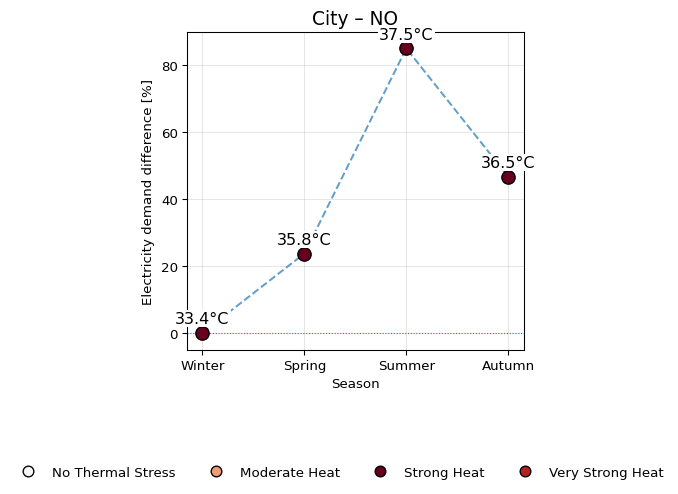
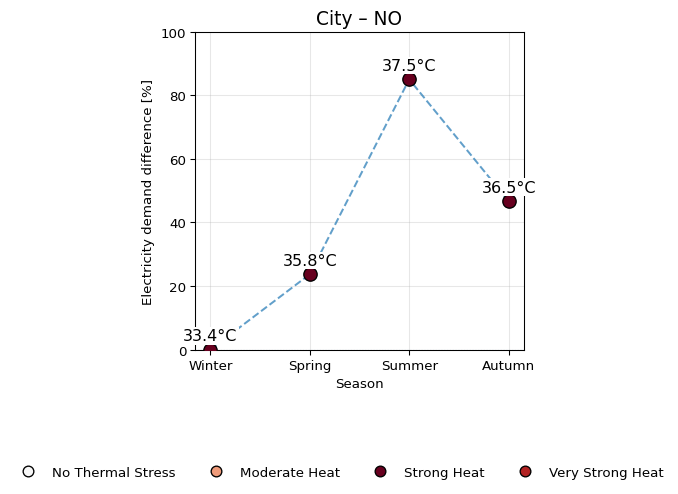
limy 0 a 100

diff --git a/docs/index.html b/docs/index.html
@@ -111,7 +111,7 @@ ul.task-list li input[type="checkbox"] {
 <!-- 
 # UTCI vs Hourly electric demand
 
-::: {#ded6f86d .cell execution_count=1}
+::: {#4708153d .cell execution_count=1}
 
 ::: {.cell-output .cell-output-display}
 ![](index_files/figure-html/cell-2-output-1.png){}
@@ -135,7 +135,7 @@ ul.task-list li input[type="checkbox"] {
 <div class="html-fill-item html-fill-container">
 
 </div>
-<div id="97244298" class="cell quarto-layout-panel html-fill-item html-fill-container" data-layout-ncol="2" data-execution_count="2">
+<div id="ab9781e4" class="cell quarto-layout-panel html-fill-item html-fill-container" data-layout-ncol="2" data-execution_count="2">
 <div class="quarto-layout-row html-fill-item html-fill-container">
 <div class="quarto-layout-cell html-fill-item html-fill-container" style="flex-basis: 50.0%;justify-content: center;">
 <img src="index_files/figure-html/cell-3-output-1.png" class="img-fluid">
@@ -159,7 +159,7 @@ ul.task-list li input[type="checkbox"] {
 <div class="html-fill-item html-fill-container">
 
 </div>
-<div id="6d01cd32" class="cell quarto-layout-panel html-fill-item html-fill-container" data-layout-ncol="2" data-execution_count="3">
+<div id="e091e50a" class="cell quarto-layout-panel html-fill-item html-fill-container" data-layout-ncol="2" data-execution_count="3">
 <div class="quarto-layout-row html-fill-item html-fill-container">
 <div class="quarto-layout-cell html-fill-item html-fill-container" style="flex-basis: 50.0%;justify-content: center;">
 <img src="index_files/figure-html/cell-4-output-1.png" class="img-fluid">
@@ -315,7 +315,7 @@ ul.task-list li input[type="checkbox"] {
 <div class="html-fill-item html-fill-container">
 
 </div>
-<div id="cd5b8e27" class="cell quarto-layout-panel html-fill-item html-fill-container" data-layout-ncol="2" data-execution_count="4">
+<div id="4be572e1" class="cell quarto-layout-panel html-fill-item html-fill-container" data-layout-ncol="2" data-execution_count="4">
 <div class="quarto-layout-row html-fill-item html-fill-container">
 <div class="quarto-layout-cell html-fill-item html-fill-container" style="flex-basis: 50.0%;justify-content: center;">
 <img src="index_files/figure-html/cell-5-output-1.png" class="img-fluid">
@@ -339,7 +339,7 @@ ul.task-list li input[type="checkbox"] {
 <div class="html-fill-item html-fill-container">
 
 </div>
-<div id="a7ed5b02" class="cell quarto-layout-panel html-fill-item html-fill-container" data-layout-ncol="2" data-execution_count="5">
+<div id="bcae6a57" class="cell quarto-layout-panel html-fill-item html-fill-container" data-layout-ncol="2" data-execution_count="5">
 <div class="quarto-layout-row html-fill-item html-fill-container">
 <div class="quarto-layout-cell html-fill-item html-fill-container" style="flex-basis: 50.0%;justify-content: center;">
 <img src="index_files/figure-html/cell-6-output-1.png" class="img-fluid">
@@ -495,7 +495,7 @@ ul.task-list li input[type="checkbox"] {
 <div class="html-fill-item html-fill-container">
 
 </div>
-<div id="2ca6bac8" class="cell quarto-layout-panel html-fill-item html-fill-container" data-layout-ncol="2" data-execution_count="6">
+<div id="6ce73426" class="cell quarto-layout-panel html-fill-item html-fill-container" data-layout-ncol="2" data-execution_count="6">
 <div class="quarto-layout-row html-fill-item html-fill-container">
 <div class="quarto-layout-cell html-fill-item html-fill-container" style="flex-basis: 50.0%;justify-content: center;">
 <img src="index_files/figure-html/cell-7-output-1.png" class="img-fluid">
@@ -519,7 +519,7 @@ ul.task-list li input[type="checkbox"] {
 <div class="html-fill-item html-fill-container">
 
 </div>
-<div id="0c0a76bf" class="cell quarto-layout-panel html-fill-item html-fill-container" data-layout-ncol="2" data-execution_count="7">
+<div id="a0bf2d18" class="cell quarto-layout-panel html-fill-item html-fill-container" data-layout-ncol="2" data-execution_count="7">
 <div class="quarto-layout-row html-fill-item html-fill-container">
 <div class="quarto-layout-cell html-fill-item html-fill-container" style="flex-basis: 50.0%;justify-content: center;">
 <img src="index_files/figure-html/cell-8-output-1.png" class="img-fluid">
@@ -675,7 +675,7 @@ ul.task-list li input[type="checkbox"] {
 <div class="html-fill-item html-fill-container">
 
 </div>
-<div id="69ab8b50" class="cell quarto-layout-panel html-fill-item html-fill-container" data-layout-ncol="2" data-execution_count="8">
+<div id="5b32c5f6" class="cell quarto-layout-panel html-fill-item html-fill-container" data-layout-ncol="2" data-execution_count="8">
 <div class="quarto-layout-row html-fill-item html-fill-container">
 <div class="quarto-layout-cell html-fill-item html-fill-container" style="flex-basis: 50.0%;justify-content: center;">
 <img src="index_files/figure-html/cell-9-output-1.png" class="img-fluid">
@@ -699,7 +699,7 @@ ul.task-list li input[type="checkbox"] {
 <div class="html-fill-item html-fill-container">
 
 </div>
-<div id="1c900d33" class="cell quarto-layout-panel html-fill-item html-fill-container" data-layout-ncol="2" data-execution_count="9">
+<div id="2a69cba7" class="cell quarto-layout-panel html-fill-item html-fill-container" data-layout-ncol="2" data-execution_count="9">
 <div class="quarto-layout-row html-fill-item html-fill-container">
 <div class="quarto-layout-cell html-fill-item html-fill-container" style="flex-basis: 50.0%;justify-content: center;">
 <img src="index_files/figure-html/cell-10-output-1.png" class="img-fluid">
@@ -855,7 +855,7 @@ ul.task-list li input[type="checkbox"] {
 <div class="html-fill-item html-fill-container">
 
 </div>
-<div id="066098b0" class="cell quarto-layout-panel html-fill-item html-fill-container" data-layout-ncol="2" data-execution_count="10">
+<div id="f2e45f4b" class="cell quarto-layout-panel html-fill-item html-fill-container" data-layout-ncol="2" data-execution_count="10">
 <div class="quarto-layout-row html-fill-item html-fill-container">
 <div class="quarto-layout-cell html-fill-item html-fill-container" style="flex-basis: 50.0%;justify-content: center;">
 <img src="index_files/figure-html/cell-11-output-1.png" class="img-fluid">
@@ -879,7 +879,7 @@ ul.task-list li input[type="checkbox"] {
 <div class="html-fill-item html-fill-container">
 
 </div>
-<div id="7f5b3a57" class="cell quarto-layout-panel html-fill-item html-fill-container" data-layout-ncol="2" data-execution_count="11">
+<div id="6616eb79" class="cell quarto-layout-panel html-fill-item html-fill-container" data-layout-ncol="2" data-execution_count="11">
 <div class="quarto-layout-row html-fill-item html-fill-container">
 <div class="quarto-layout-cell html-fill-item html-fill-container" style="flex-basis: 50.0%;justify-content: center;">
 <img src="index_files/figure-html/cell-12-output-1.png" class="img-fluid">
@@ -1035,7 +1035,7 @@ ul.task-list li input[type="checkbox"] {
 <div class="html-fill-item html-fill-container">
 
 </div>
-<div id="7a336692" class="cell quarto-layout-panel html-fill-item html-fill-container" data-layout-ncol="2" data-execution_count="12">
+<div id="e14de828" class="cell quarto-layout-panel html-fill-item html-fill-container" data-layout-ncol="2" data-execution_count="12">
 <div class="quarto-layout-row html-fill-item html-fill-container">
 <div class="quarto-layout-cell html-fill-item html-fill-container" style="flex-basis: 50.0%;justify-content: center;">
 <img src="index_files/figure-html/cell-13-output-1.png" class="img-fluid">
@@ -1059,7 +1059,7 @@ ul.task-list li input[type="checkbox"] {
 <div class="html-fill-item html-fill-container">
 
 </div>
-<div id="f4fadbe1" class="cell quarto-layout-panel html-fill-item html-fill-container" data-layout-ncol="2" data-execution_count="13">
+<div id="c2303d54" class="cell quarto-layout-panel html-fill-item html-fill-container" data-layout-ncol="2" data-execution_count="13">
 <div class="quarto-layout-row html-fill-item html-fill-container">
 <div class="quarto-layout-cell html-fill-item html-fill-container" style="flex-basis: 50.0%;justify-content: center;">
 <img src="index_files/figure-html/cell-14-output-1.png" class="img-fluid">
@@ -1215,7 +1215,7 @@ ul.task-list li input[type="checkbox"] {
 <div class="html-fill-item html-fill-container">
 
 </div>
-<div id="5d4aa1a1" class="cell quarto-layout-panel html-fill-item html-fill-container" data-layout-ncol="2" data-execution_count="14">
+<div id="5523e3ab" class="cell quarto-layout-panel html-fill-item html-fill-container" data-layout-ncol="2" data-execution_count="14">
 <div class="quarto-layout-row html-fill-item html-fill-container">
 <div class="quarto-layout-cell html-fill-item html-fill-container" style="flex-basis: 50.0%;justify-content: center;">
 <img src="index_files/figure-html/cell-15-output-1.png" class="img-fluid">
@@ -1239,7 +1239,7 @@ ul.task-list li input[type="checkbox"] {
 <div class="html-fill-item html-fill-container">
 
 </div>
-<div id="72838545" class="cell quarto-layout-panel html-fill-item html-fill-container" data-layout-ncol="2" data-execution_count="15">
+<div id="81886934" class="cell quarto-layout-panel html-fill-item html-fill-container" data-layout-ncol="2" data-execution_count="15">
 <div class="quarto-layout-row html-fill-item html-fill-container">
 <div class="quarto-layout-cell html-fill-item html-fill-container" style="flex-basis: 50.0%;justify-content: center;">
 <img src="index_files/figure-html/cell-16-output-1.png" class="img-fluid">
@@ -1395,7 +1395,7 @@ ul.task-list li input[type="checkbox"] {
 <div class="html-fill-item html-fill-container">
 
 </div>
-<div id="ecfc109a" class="cell quarto-layout-panel html-fill-item html-fill-container" data-layout-ncol="2" data-execution_count="16">
+<div id="25990a2e" class="cell quarto-layout-panel html-fill-item html-fill-container" data-layout-ncol="2" data-execution_count="16">
 <div class="quarto-layout-row html-fill-item html-fill-container">
 <div class="quarto-layout-cell html-fill-item html-fill-container" style="flex-basis: 50.0%;justify-content: center;">
 <img src="index_files/figure-html/cell-17-output-1.png" class="img-fluid">
@@ -1419,7 +1419,7 @@ ul.task-list li input[type="checkbox"] {
 <div class="html-fill-item html-fill-container">
 
 </div>
-<div id="18f26953" class="cell quarto-layout-panel html-fill-item html-fill-container" data-layout-ncol="2" data-execution_count="17">
+<div id="04824335" class="cell quarto-layout-panel html-fill-item html-fill-container" data-layout-ncol="2" data-execution_count="17">
 <div class="quarto-layout-row html-fill-item html-fill-container">
 <div class="quarto-layout-cell html-fill-item html-fill-container" style="flex-basis: 50.0%;justify-content: center;">
 <img src="index_files/figure-html/cell-18-output-1.png" class="img-fluid">
@@ -1575,7 +1575,7 @@ ul.task-list li input[type="checkbox"] {
 <div class="html-fill-item html-fill-container">
 
 </div>
-<div id="f10c8df1" class="cell quarto-layout-panel html-fill-item html-fill-container" data-layout-ncol="2" data-execution_count="18">
+<div id="36012d86" class="cell quarto-layout-panel html-fill-item html-fill-container" data-layout-ncol="2" data-execution_count="18">
 <div class="quarto-layout-row html-fill-item html-fill-container">
 <div class="quarto-layout-cell html-fill-item html-fill-container" style="flex-basis: 50.0%;justify-content: center;">
 <img src="index_files/figure-html/cell-19-output-1.png" class="img-fluid">
@@ -1595,7 +1595,7 @@ ul.task-list li input[type="checkbox"] {
 <!-- 
 ## Relative increase
 
-::: {#13688a97 .cell layout-ncol='2' execution_count=19}
+::: {#3c0cbd51 .cell layout-ncol='2' execution_count=19}
 
 ::: {.cell-output .cell-output-display}
 ![](index_files/figure-html/cell-20-output-1.png){}
@@ -1633,7 +1633,7 @@ ul.task-list li input[type="checkbox"] {
 <div class="html-fill-item html-fill-container">
 
 </div>
-<div id="ca87d0b2" class="cell quarto-layout-panel html-fill-item html-fill-container" data-layout-ncol="2" data-execution_count="20">
+<div id="a6c7ec0f" class="cell quarto-layout-panel html-fill-item html-fill-container" data-layout-ncol="2" data-execution_count="20">
 <div class="quarto-layout-row html-fill-item html-fill-container">
 <div class="quarto-layout-cell html-fill-item html-fill-container" style="flex-basis: 50.0%;justify-content: center;">
 <img src="index_files/figure-html/cell-21-output-1.png" class="img-fluid">

diff --git a/utils/analisis.py b/utils/analisis.py
@@ -441,7 +441,7 @@ def plot_demand_with_table(data_file: str,
     ax.set_title(f"{kind} – {region}", fontsize=14)
     ax.set_xlabel('Season')
     ax.set_ylabel('Electricity demand difference [%]')
-    ax.set_ylim(df_stats['Δ Demand [%]'].min() - 5, df_stats['Δ Demand [%]'].max() + 5)
+    ax.set_ylim(0, 100)
     ax.grid(alpha=0.3)
 
     # leyenda de estrés
